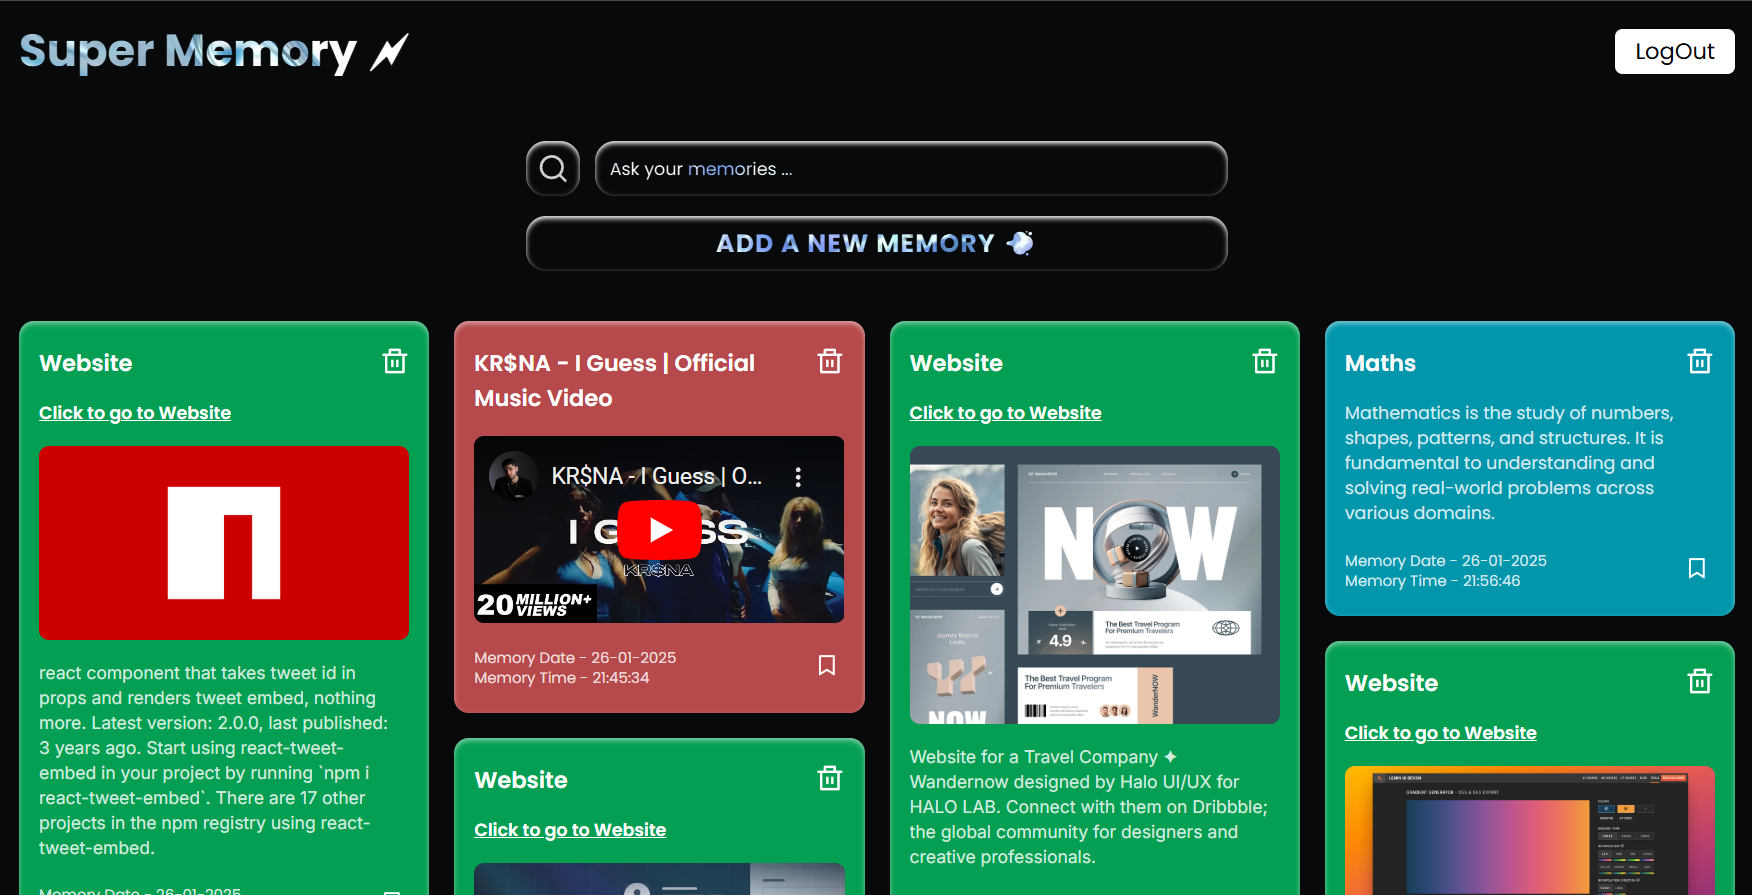
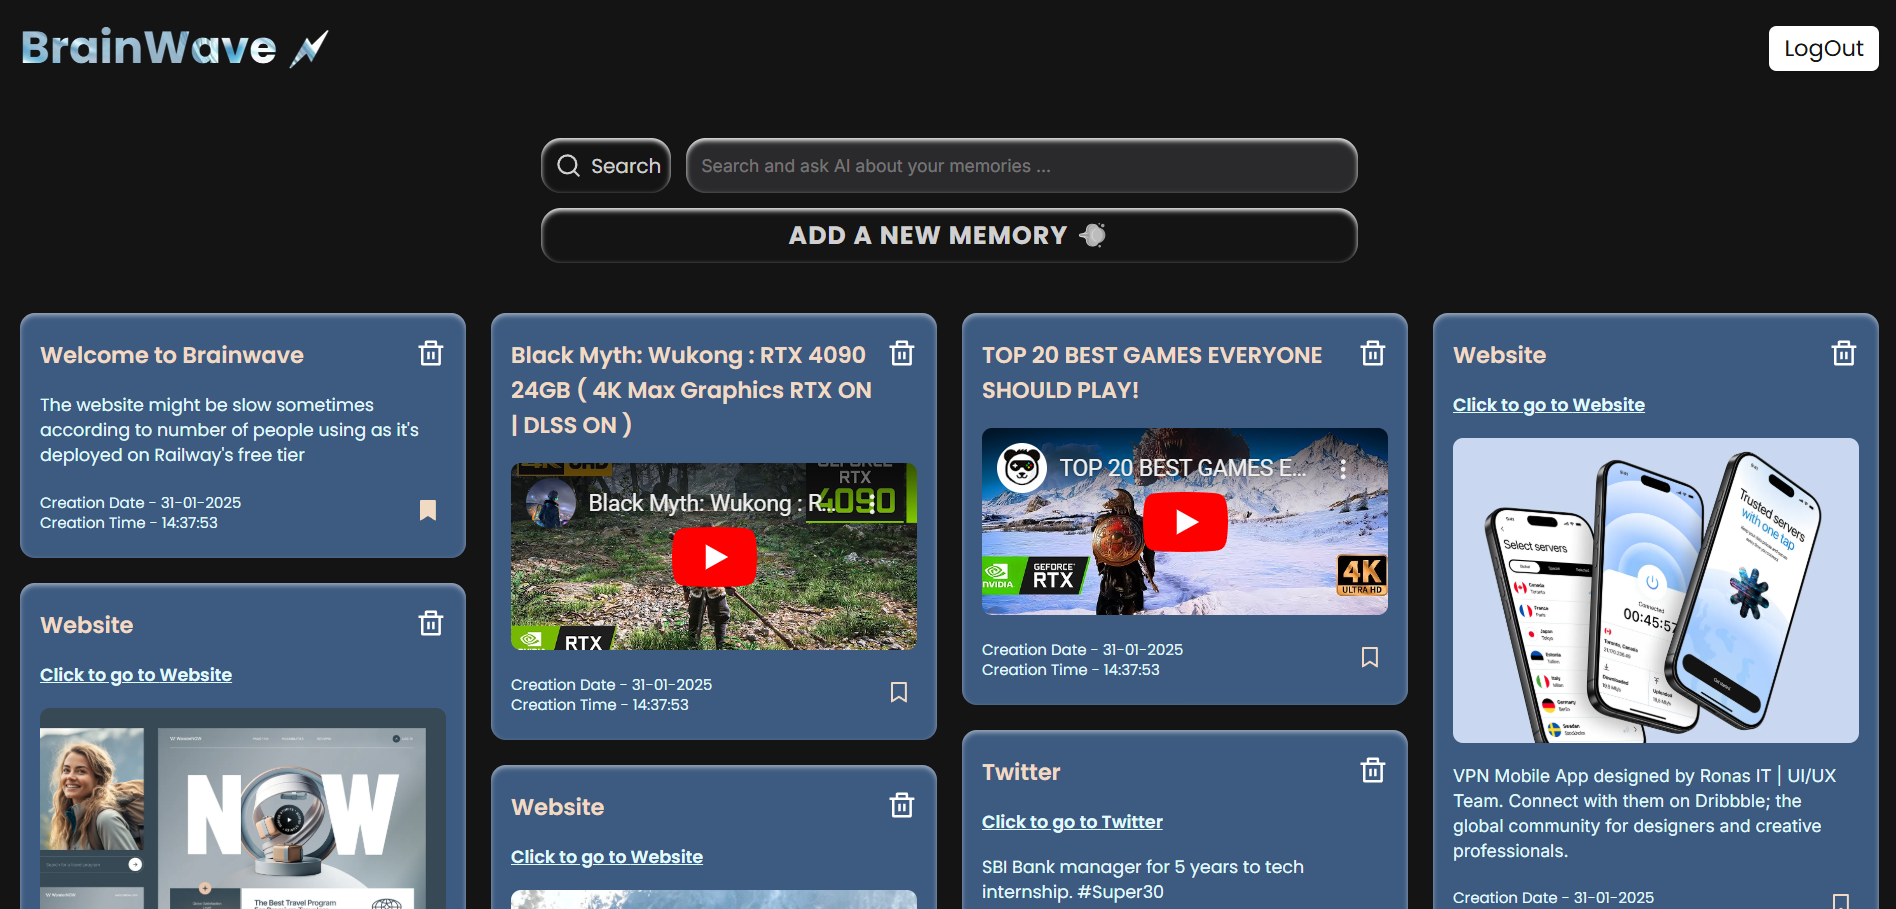
Changed the color scheme

diff --git a/src/components/MemoryCard.jsx b/src/components/MemoryCard.jsx
@@ -9,10 +9,10 @@ import { allMemories } from '../../atoms'
 import axios from 'axios'
 
 const colorScheme={
-    "Youtube":"bg-red-400/70",
-    "Note":"bg-cyan-400/70",
-    "Twitter":"bg-blue-400/70",
-    "Website":"bg-green-400/70"
+    "Youtube":"bg-[#3d5a80]",
+    "Note":"bg-[#3d5a80]",
+    "Twitter":"bg-[#3d5a80]",
+    "Website":"bg-[#3d5a80]"
 }
 
 const MemoryCard = ({title,imageUrl,description,creationTime,creationDate,bookMark,link,type,objectId,showExtras}) => {
@@ -65,7 +65,7 @@ const MemoryCard = ({title,imageUrl,description,creationTime,creationDate,bookMa
         setAllMems((prev)=>prev.filter((mems)=>mems._id!=objectId))
     }
   return(
-    <div className={`mb-3 md:mb-4 xl:mb-5 break-inside-avoid h-fit rounded-xl ${colorScheme[type]} inset-shadow-sm inset-shadow-white/50 px-2 sm:px-4 py-5 text-white`}>
+    <div className={`mb-3 md:mb-4 xl:mb-5 break-inside-avoid h-fit rounded-xl ${colorScheme[type]} inset-shadow-sm inset-shadow-white/50 px-2 sm:px-4 py-5 text-[#f1dac4] `}>
         {/* Title Section */}
             <div className='flex'> 
               <div className='w-[93%] text-lg font-semibold overflow-x-auto overflow-y-scroll noScrollbar break-words pr-2' >{type=="Youtube" || type=="Note"?title:type}</div>
@@ -74,7 +74,7 @@ const MemoryCard = ({title,imageUrl,description,creationTime,creationDate,bookMa
 
         {/* Go to URL section */}
         {
-            (type=="Twitter" || type=="Website") &&  <div className='my-4 text-sm text-white font-semibold'>
+            (type=="Twitter" || type=="Website") &&  <div className='my-4 text-sm text-[#e0fbfc] font-semibold'>
                 <a href={link} className='underline' target="_blank">Click to go to {type}</a>
             </div> 
         }
@@ -92,18 +92,18 @@ const MemoryCard = ({title,imageUrl,description,creationTime,creationDate,bookMa
                 </div>
               }
               {
-                (type=="Website")  && <div className='my-4 font-inter text-sm text-white/80 max-h-96 pr-2 break-words overflow-auto noScrollbar'>
+                (type=="Website")  && <div className='my-4 font-inter text-sm text-[#e0fbfc] max-h-96 pr-2 break-words overflow-auto noScrollbar'>
                 {description=="N/A" ? title : description}
                 </div>
               }
               {
-                (type=="Note" || type=="Twitter")  && <div className='my-4 text-sm text-white/80 max-h-96  pr-2 break-words overflow-auto noScrollbar'>
+                (type=="Note" || type=="Twitter")  && <div className='my-4 text-sm text-[#e0fbfc] max-h-96  pr-2 break-words overflow-auto noScrollbar'>
                 {description}
                 </div>
               }
             {/* Footer Section */}
             <div className='flex mt-5 items-center'> 
-            <div className='w-[93%] text-xs overflow-hidden text-white/80' >
+            <div className='w-[93%] text-xs overflow-hidden text-[#e0fbfc]' >
               <div>Creation Date - {creationDate}</div>
               <div>Creation Time - {creationTime}</div>
             </div>

diff --git a/src/components/SearchBar.jsx b/src/components/SearchBar.jsx
@@ -21,7 +21,7 @@ const SearchBar = () => {
   return (
     <div className='w-[93%] mx-auto md:w-[63%] lg:w-[43%]' >
         <div className='flex gap-3 '>
-          <div className='bg-genericBlack/50 inset-shadow-sm inset-shadow-white justify-center items-center rounded-2xl w-fit silverGradient2  cursor-pointer hover:scale-x-104 hover:scale-y-104 duration-600 flex hover:border hover:border-blue-400'>
+          <div className='bg-blackStandard/80 inset-shadow-sm inset-shadow-white justify-center items-center rounded-2xl w-fit text-white/80  cursor-pointer hover:scale-x-104 hover:scale-y-104 duration-600 flex hover:border hover:border-blue-400'>
           <div className="h-8 w-fit flex items-center pr-2 pl-1 " onClick={async ()=>{
             if(queryTab.current.value==""){
               alert("Please ask a valid question")
@@ -38,7 +38,7 @@ const SearchBar = () => {
           </div>
           <input spellCheck="false" ref={queryTab} placeholder='Search and ask AI about your memories ...' className=' bg-[#4a494d]/40  caret-white inset-shadow-sm inset-shadow-white rounded-2xl h-11 w-full text-white/70 px-3 text-sm outline-none hover:scale-x-101 hover:scale-y-102 duration-600 hover:border hover:border-blue-400 font-inter' type="text" name="" id="" />
           </div>
-          <div className='hover:border hover:border-blue-400 bg-genericBlack/50 mt-3 inset-shadow-sm inset-shadow-white h-fit py-2 rounded-2xl mx-auto silverGradient2 px-2 text-center font-bold tracking-wider text-xl cursor-pointer hover:scale-x-103 hover:scale-y-102 duration-600' onClick={()=>setModalOpen((prev)=>!prev)}>
+          <div className='hover:border hover:border-blue-400 bg-blackStandard text-white/80 mt-3 inset-shadow-sm inset-shadow-white h-fit py-2 rounded-2xl mx-auto px-2 text-center font-bold tracking-wider text-xl cursor-pointer hover:scale-x-103 hover:scale-y-102 duration-600' onClick={()=>setModalOpen((prev)=>!prev)}>
               ADD A NEW MEMORY 💨
           </div>
         </div>

diff --git a/src/svgs/Search2.jsx b/src/svgs/Search2.jsx
@@ -2,7 +2,7 @@ import React from 'react'
 
 const Search2 = () => {
   return (
-    <svg className='text-white/80 h-[60%] w-[60%]' xmlns="http://www.w3.org/2000/svg" viewBox="0 0 24 24" fill="currentColor"><path fill="none" d="M0 0h24v24H0z"></path><path d="M18.031 16.6168L22.3137 20.8995L20.8995 22.3137L16.6168 18.031C15.0769 19.263 13.124 20 11 20C6.032 20 2 15.968 2 11C2 6.032 6.032 2 11 2C15.968 2 20 6.032 20 11C20 13.124 19.263 15.0769 18.031 16.6168ZM16.0247 15.8748C17.2475 14.6146 18 12.8956 18 11C18 7.1325 14.8675 4 11 4C7.1325 4 4 7.1325 4 11C4 14.8675 7.1325 18 11 18C12.8956 18 14.6146 17.2475 15.8748 16.0247L16.0247 15.8748Z"></path></svg>
+    <svg className= 'h-[60%] w-[60%]' xmlns="http://www.w3.org/2000/svg" viewBox="0 0 24 24" fill="currentColor"><path fill="none" d="M0 0h24v24H0z"></path><path d="M18.031 16.6168L22.3137 20.8995L20.8995 22.3137L16.6168 18.031C15.0769 19.263 13.124 20 11 20C6.032 20 2 15.968 2 11C2 6.032 6.032 2 11 2C15.968 2 20 6.032 20 11C20 13.124 19.263 15.0769 18.031 16.6168ZM16.0247 15.8748C17.2475 14.6146 18 12.8956 18 11C18 7.1325 14.8675 4 11 4C7.1325 4 4 7.1325 4 11C4 14.8675 7.1325 18 11 18C12.8956 18 14.6146 17.2475 15.8748 16.0247L16.0247 15.8748Z"></path></svg>
   )
 }
 

diff --git a/src/components/HeroSection.jsx b/src/components/HeroSection.jsx
@@ -56,12 +56,12 @@ const HeroSection = () => {
   })
 
   return (
-    <div className='h-screen bg-blackStandard mt-2 rounded-lg w-[99%] mx-auto font-poppins relative'>
+    <div className='h-screen bg-blackStandard mx-auto font-poppins relative border-t border-white/60'>
     <div className='py-14 sm:py-18'>
       <div className='rounded-2xl w-fit bg-[#4a494d]/80 mx-auto text-sm sm:text-base px-3 py-1 text-white/80 '>
         Welcome to your virtual brain ✧
       </div>
-      <div className='text-white/60 my-10 text-2xl w-fit mx-auto font-medium sm:text-4xl md:text-6xl sm:w-[65%] md:w-[50%] text-center '>
+      <div className=' text-white/60 my-10 text-2xl w-fit mx-auto font-medium sm:text-4xl md:text-7xl sm:w-[65%] md:w-[50%] text-center '>
       Your<span className='silverGradient font-bold' ref={ref3}> Second Brain</span> Powered by <span className='silverGradient font-bold' ref={ref4}>AI</span>
       </div>
       <div className='text-white/60 my-10 w-[80%] mx-auto text-sm text-center sm:text-lg md:text-xl sm:w-[60%] md:w-[50%] lg:w-[40%]'>

diff --git a/src/components/AfterSearchMainApp.jsx b/src/components/AfterSearchMainApp.jsx
@@ -87,12 +87,12 @@ const AfterSearchMainApp = () => {
   return (
     <div> 
       <Navbar></Navbar>
-      <div onClick={()=>{
+      <div  className='pt-5 bg-blackStandard'>
+        <div className='font-poppins cursor-pointer w-fit bg-blackStandard text-white/80 inset-shadow-sm inset-shadow-white items-center rounded-full flex gap-2 ml-3 px-3 py-1 lg:ml-6' >
+          <div onClick={()=>{
         navigate("/home")
         setQuery("")
-      }} className='pt-5 bg-blackStandard'>
-        <div className='font-poppins cursor-pointer w-fit bg-blackStandard text-white/80 inset-shadow-sm inset-shadow-white items-center rounded-full flex gap-2 ml-3 px-3 py-1 lg:ml-6' >
-          <div className='h-8 w-8 flex justify-center items-center '>
+      }} className='h-8 w-8 flex justify-center items-center '>
           <BackArrow></BackArrow>
           </div>
           <div>

diff --git a/src/components/SignUp.jsx b/src/components/SignUp.jsx
@@ -49,7 +49,7 @@ const SignUp = () => {
     }
 
     return (
-      <div className='bg-blackStandard h-screen w-full flex justify-center lg:justify-normal items-center font-poppins  overflow-hidden'>
+      <div className='bg-[#030303] h-screen w-full flex justify-center lg:justify-normal items-center font-poppins  overflow-hidden'>
         <div className='lg:w-[45%] relative flex justify-center'>
         <div className='w-34 h-34 silverGradientNormal  absolute rounded-full top-[-10%] left-[73%] shadow-md '></div>
         <div className='w-20 h-20 silverGradientNormal absolute rounded-full top-[92%] left-[20%] shadow-md '></div>

diff --git a/src/components/SignIn.jsx b/src/components/SignIn.jsx
@@ -59,7 +59,7 @@ const SignIn = () => {
   }
 
   return (
-    <div className='bg-blackStandard h-screen w-full flex justify-center lg:justify-normal items-center font-poppins  overflow-hidden'>
+    <div className='bg-[#030303] h-screen w-full flex justify-center lg:justify-normal items-center font-poppins  overflow-hidden'>
       <div className='lg:w-[45%] relative flex justify-center'>
       <div className='w-34 h-34 silverGradientNormal  absolute rounded-full top-[-10%] left-[73%] shadow-md '></div>
       <div className='w-20 h-20 silverGradientNormal absolute rounded-full top-[92%] left-[20%] shadow-md '></div>

diff --git a/src/components/Navbar.jsx b/src/components/Navbar.jsx
@@ -10,7 +10,7 @@ const Navbar = () => {
   const setAllMems=useSetRecoilState(allMemories)
 
   return (
-    <div className={` bg-blackStandard flex justify-between ${isLoggedIn?"":"my-2 w-[99%] rounded-md"}  font-poppins py-5 shadow mx-auto px-4`} >
+    <div className={` bg-blackStandard flex justify-between font-poppins py-5 mx-auto px-4`} >
         <div className='text-2xl font-bold sm:text-4xl p-auto silverGradient'>
           BrainWave 🗲
         </div>

diff --git a/src/index.css b/src/index.css
@@ -3,7 +3,7 @@
 @import "tailwindcss";
 
 @theme{
-  --color-blackStandard:#07090a;
+  --color-blackStandard:#141414;
   --color-buttonBlack:#272629;
   --color-backGround:#f5f7fa;
   --color-genericBlack:#4a494d;
@@ -41,6 +41,7 @@ html,body{
 .silverGradientNormal2{
   background-image: url("./assets/silverBackground6.jpg");
   background-size: cover;
+  /* background-position: right; */
 }
 
 .geminiGradientNormal{
